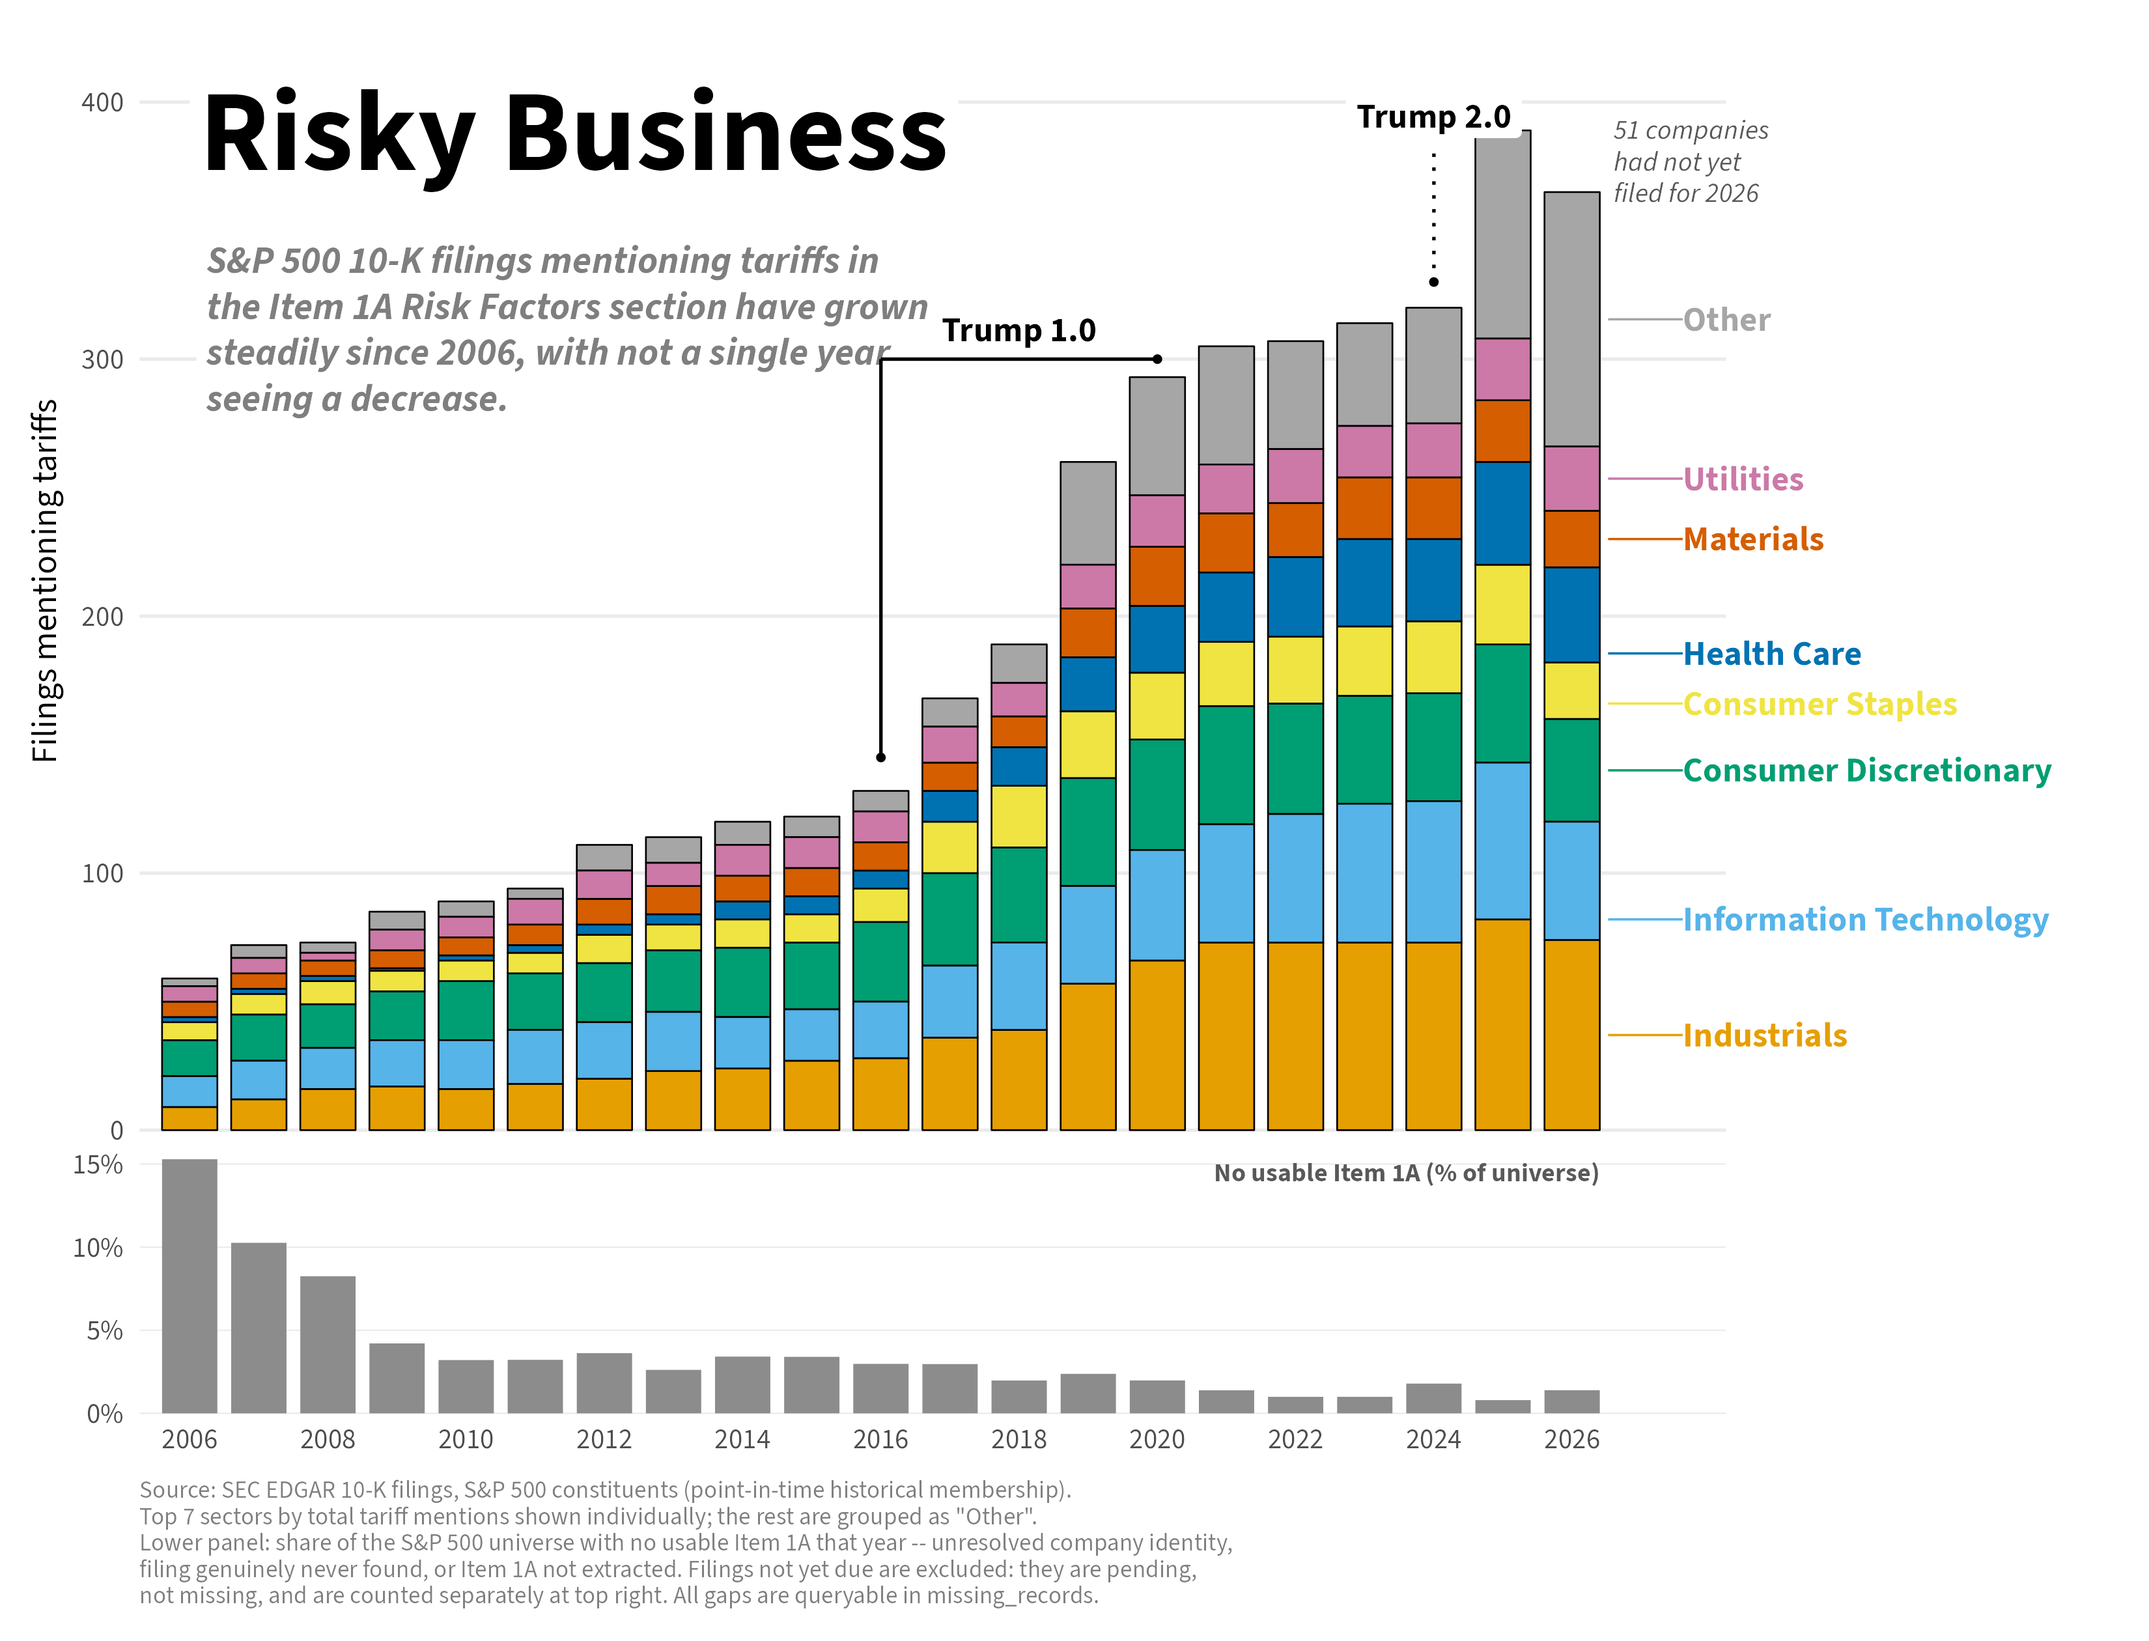
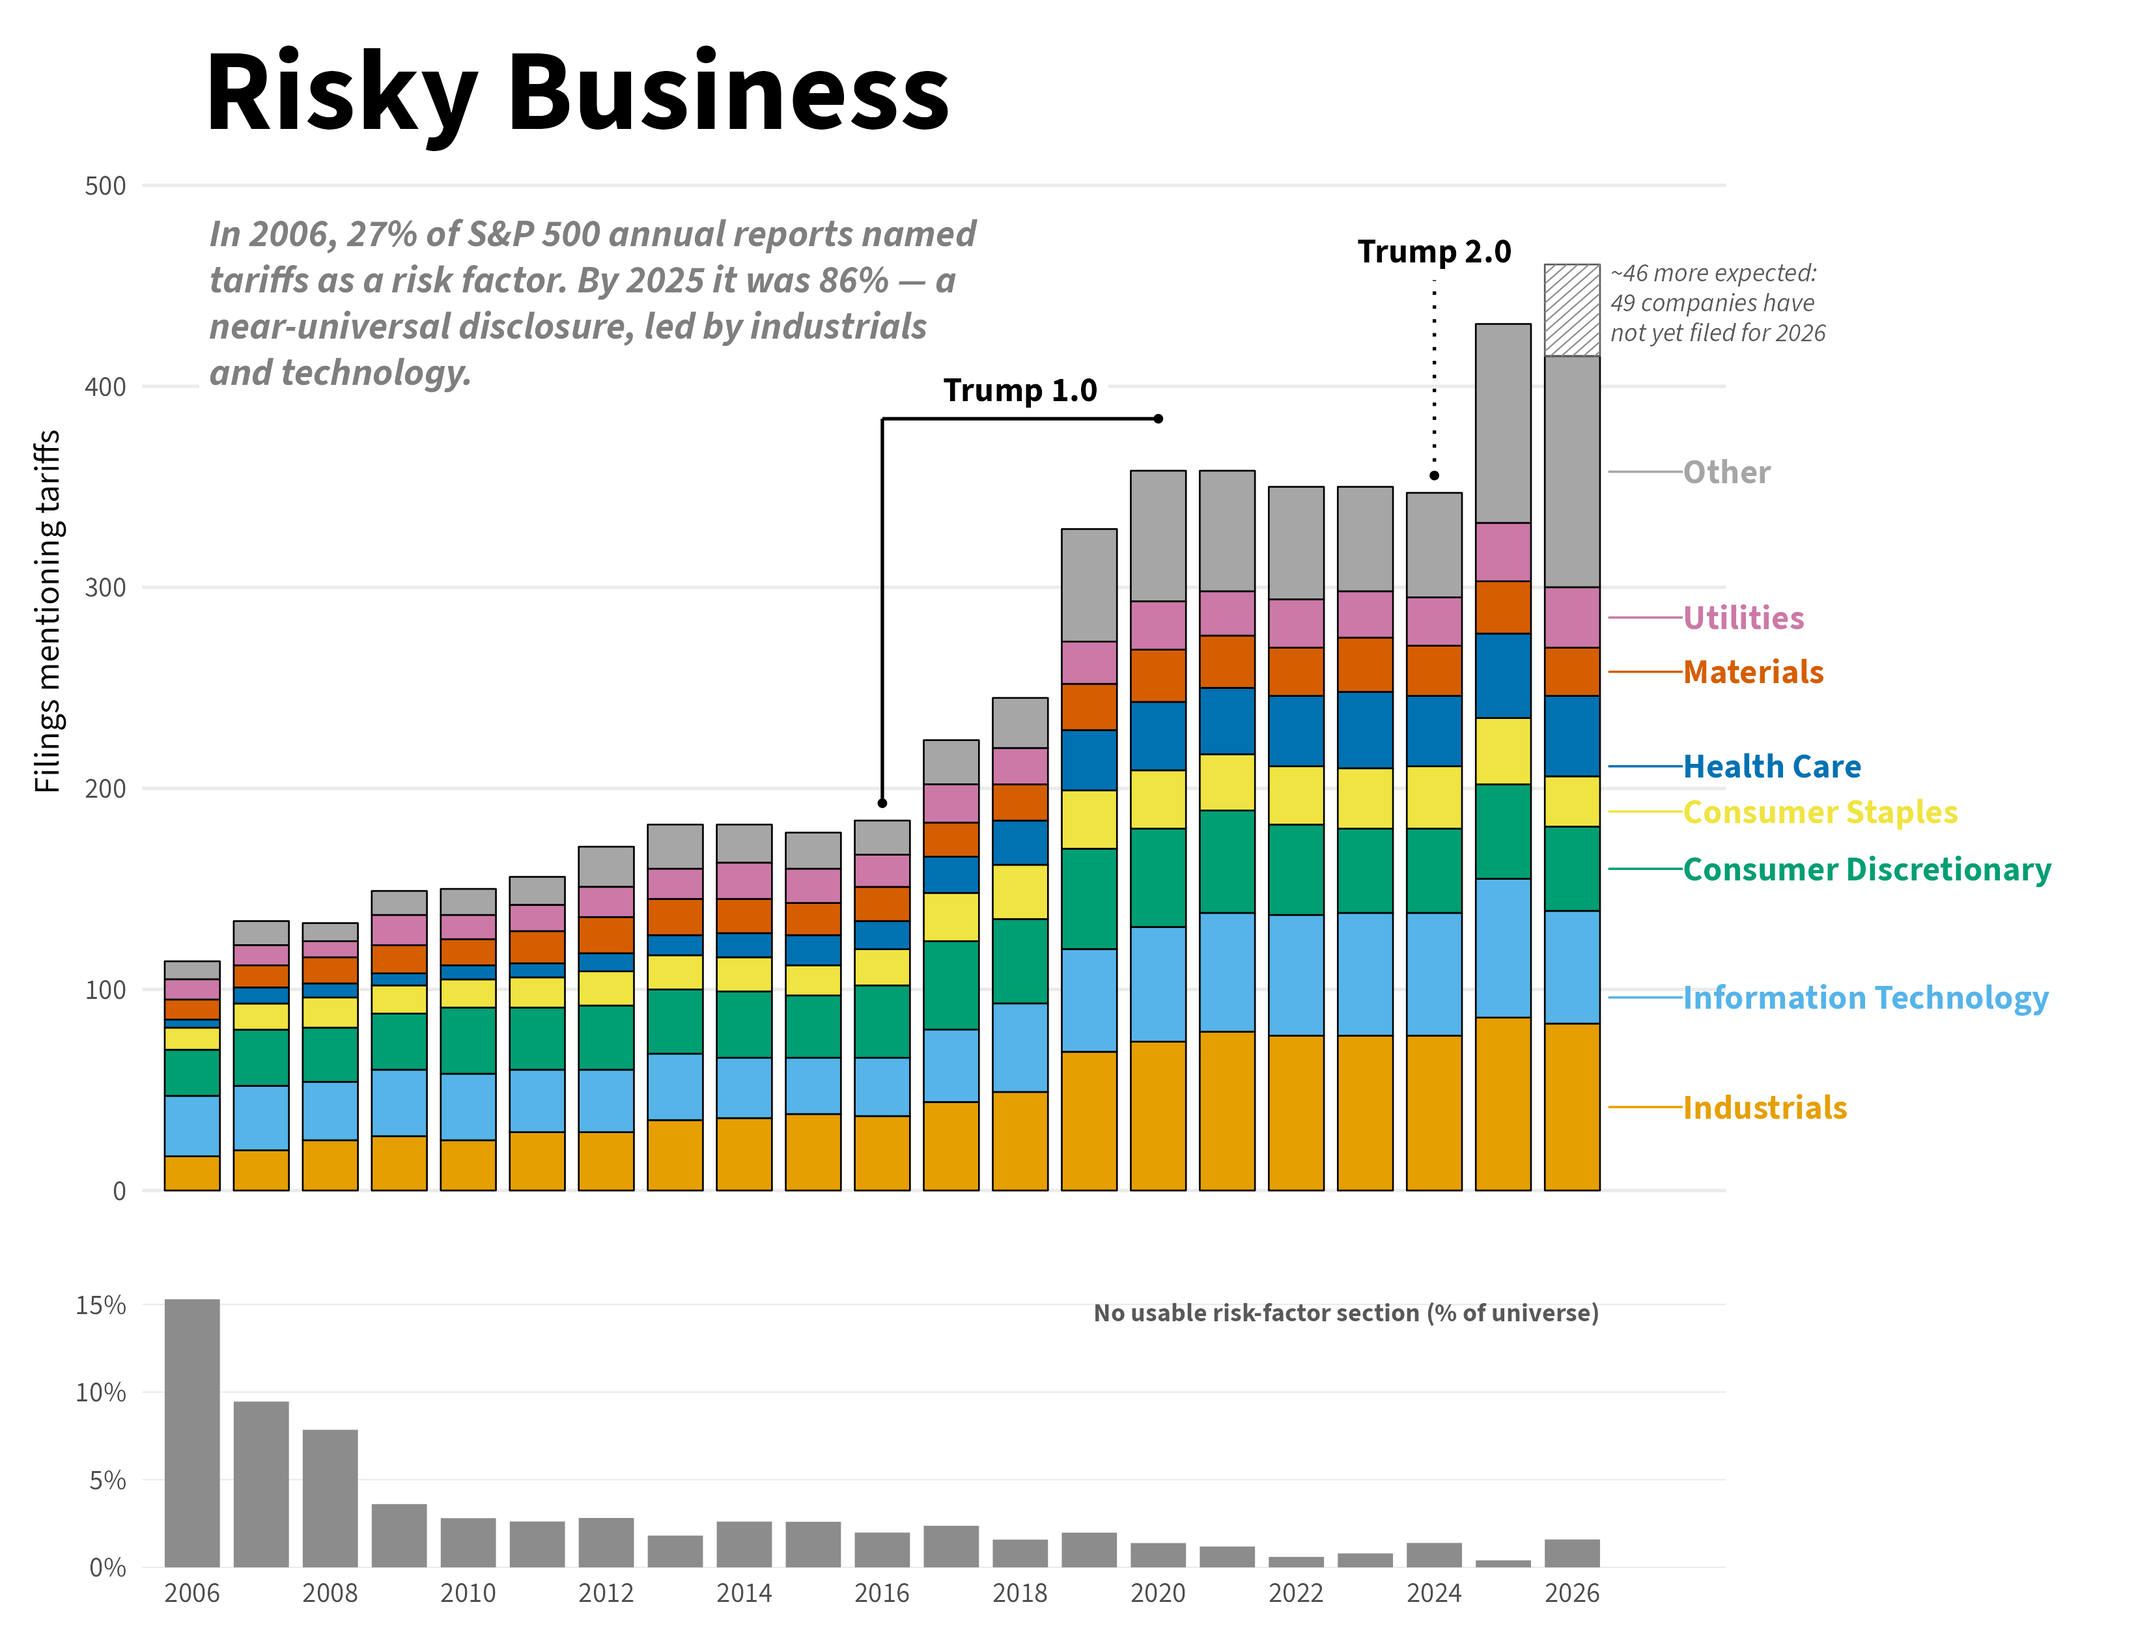
Redraw the tariff chart off a table that was 20 days stale
tariffs_by_year_sector was generated 2026-08-03 21:56.
risk_factors_index was rebuilt 2026-08-21 22:54. Every chart drawn
between those dates read the corpus as it stood BEFORE the
CIK-resolution work that took coverage from 71% to 96%.

That work recovered early years hardest, so the staleness was not a
uniform scaling -- 2006 came back 59 mentions against a true 114 (14.0%
vs 27.1%), while 2025 moved 389 -> 431. The headline claim was an
artifact of exactly that: "not a single year seeing a decrease" is false
against the rebuilt series, where the count falls in 2008, 2015, 2022,
2024 and (incompletely) 2026, and the share falls in six years. The
growth is real and still large -- 27% to 86% -- but it is ~3.2x, not the
~5.9x the stale series implied.

Nothing about the stale table was visible in the chart. It had no
timestamp, the shape looked plausible, and the claim it supported was
the most quotable sentence on the page. A derived table can be wrong in
the same silent, count-inflating way an extraction can, and
_meta.generated_at is the check that catches it.

So the subtitle states a magnitude instead of a streak, and is built
from the data rather than typed in, so it cannot go stale when the
pipeline is re-run. The share series it quotes is computed here as its
own robustness check: the bars are counts, and the number of filings
behind them is not constant (421 in 2006, 501 in 2025), so if counts and
[…]

diff --git a/decisions.md b/decisions.md
@@ -1192,3 +1192,129 @@ like data but isn't**. Stub extractions counted as risk factors, a wrong
 company's 10-K counted as the right one, a network failure counted as a
 negative result. None are visible in a coverage number; all inflate it. The
 counts that go DOWN after an audit are the ones to trust.
+
+---
+
+## 2026-08-23 — Grade-1 recovery, and a stale table under the chart
+
+Two separate things, and the second is the bigger one.
+
+### The tariff table was 20 days stale
+
+`tariffs_by_year_sector` was generated 2026-08-03 21:56. `risk_factors_index`
+was rebuilt 2026-08-21 22:54. Every chart drawn from that table between those
+dates was reading the corpus as it stood **before** the CIK-resolution work
+that took coverage from 71% to 96%.
+
+That work recovered early years hardest, so the staleness was not a uniform
+scaling — it bit 2006 far harder than 2025. Re-running `06` against the
+current corpus:
+
+| Year | Stale | Rebuilt | Stale rate | Rebuilt rate |
+|---|---|---|---|---|
+| 2006 | 59 | 114 | 14.0% | 27.1% |
+| 2025 | 389 | 431 | 78.0% | 86.0% |
+
+**The old subtitle — "not a single year seeing a decrease" — was an artifact
+of this.** Against the rebuilt series the count falls in 2008, 2015, 2022,
+2024 and (incompletely) 2026; the share falls in six years. The monotone rise
+was manufactured by understating the early years by roughly half. The growth
+is real and still large — 27% to 86% — but it is ~3.2x, not the ~5.9x the
+stale series implied.
+
+Nothing about the stale table was visible in the chart. It had no timestamp on
+it, the shape looked plausible, and the claim it supported was the most
+quotable sentence on the page. The lesson is the standing one in this file,
+one level up: a derived table can be wrong in the same silent, count-inflating
+way an extraction can, and `_meta.generated_at` is the check that catches it.
+
+### Grade-1 recovery: +54 rows, after four wrong versions
+
+`03c_recover_bare_sections.py` recovers sections printed under a "Risk
+Factors" heading that the Item-numbered markers cannot bound — FedEx (in the
+primary document all along), U.S. Bancorp, Wells Fargo. Decisions taken before
+building it: gaps only, so the 10,088 existing sections are untouched by
+construction; grade 1 only, so a safe-harbour cautionary statement standing in
+for Item 1A is recorded as a different disclosure rather than counted as one;
+and exactly one surviving candidate per accession, with ambiguity referred to
+a human instead of resolved by a tiebreak.
+
+**Those three rules were not enough, and the way they failed is the point.**
+The first run recovered 75 rows. Reading them showed ~30 were not short
+sections but wrong text: JNJ 2006 was 3,092 chars of Item 1B, Properties and
+Legal Proceedings; CVG 2008 a pointer stub plus Properties; UPS 2006 a
+forward-looking-statements bullet list. Uniqueness catches ambiguity between
+documents. It says nothing about whether the one survivor stops in the right
+place.
+
+Four guards, each found by reading output that had already passed every
+previous guard:
+
+1. **No Item-numbered heading inside the capture.** An internal `Item 2` /
+   `Item 7A` proves over-run. Note the pattern needs `[2-9]\s*[.\(]?\s*[ab]?`,
+   not `[2-9]\b` — there is no word boundary between "7" and "A", so the
+   first version could not see "ITEM 7A." at all, and UHS 2020 passed with
+   the MD&A appended and that heading on its last line.
+2. **Floor at 11,595 chars** — the 5th percentile of sections produced by the
+   trustworthy method (median 49,983). The existing 1,500 floor was calibrated
+   for marker extraction, which is bounded by two corroborating Item headings.
+   This strategy has one enumerated end marker and nothing corroborating it,
+   so it must clear a stricter bar than the method it stands in for.
+3. **Must end at a sentence.** Citigroup 2021 stopped at "...see Notes 1 and
+   15 to the" because "Consolidated Financial Statements" followed as a styled
+   cross-reference and `html_to_text` puts every element on its own line.
+4. **Must start at a sentence.** Where the nested-candidate collapse falls
+   back to a later running-header repeat, the result is correct at the end and
+   80,000 chars short at the front: WFC 2021 came back at 20,133 against
+   ~100,000 for every neighbouring year, opening "(continued) example, if
+   market interest rates increase...". It passed guards 1-3.
+
+**Nested candidates are one section, not rivals.** Wells Fargo's exhibit
+reprints "Risk Factors" as a running page header, so 2018 yields eight starts
+at ~15,000-char intervals all running to the same terminator — each a suffix
+of the one before. Collapsing to the earliest start per end is not the "take
+the longest" tiebreak rejected earlier; that would choose between different
+spans of text, this chooses a section over a suffix of itself. Candidates with
+*different* ends are still ambiguity and still refused.
+
+**Terminators are enumerated, not inferred**, and the list needed two rounds.
+"controls and procedures" never fired because the heading reads "DISCLOSURE
+CONTROLS AND PROCEDURES" and matching is line-anchored. `management's report
+on internal control` never fired because filings render the possessive as
+U+2019 and the pattern had an ASCII apostrophe — a miss that does not fail,
+it just runs the capture on to the next terminator it can match, which is how
+Citigroup 2024 came back 390,451 chars with a correct opening and KPMG's audit
+opinion on the end.
+
+**Seven rows were rejected by hand** (`REJECTED_TAIL_OVERRUN`): Citigroup
+2023-2026, BNY Mellon 2006-2007, Constellation 2024. All open correctly and
+over-run at the tail into material each filer lays out differently. Fixing
+them needs per-filer terminators, which is the parser checkpoint 4 declined to
+write. **Citigroup therefore ends up entirely absent, 2025 and 2026
+included** — the contamination is ~1% of a 386,000-char section and contains
+no tariff mentions, so admitting them would barely move the chart. That is an
+argument for keeping them and it is the argument this project has refused
+every previous time. Reversing it means deleting from that list, not loosening
+a guard.
+
+Counts across the five runs: 75, 62, 78, 65, 63, then 61 after the hand
+rejections. **The highest number came from the version storing Properties
+sections as risk factors.** Extraction 10,088 -> **10,142**; coverage 95.9% ->
+**96.4%**. `09_validate_resolution.py` passes all five invariants;
+`test_parser_regression.py` reports 149 identical, 0 changed.
+
+### Missingness now distinguishes "no answer" from "answered elsewhere"
+
+`no_item_1a_extracted` carries a sub_reason: `no_item_1a_incorporated` (73
+rows — the filer answered Item 1A by reference, a fact about the filer),
+`no_item_1a_found` (55), `no_item_1a_tail_overrun` (7). All remain gaps for
+coverage; none appear in the tariff bars.
+
+### Chart
+
+2026 is drawn solid at what is counted with a hatched cap for what is pending,
+sized at 49 pending filers x the observed 93% rate rather than the prior
+build's one-mention-per-filer assumption. The subtitle is a magnitude built
+from the data, not a streak. The Trump 1.0/2.0 anchors were hardcoded at
+y = 145 and y = 330 against the stale series and both sat inside their bars
+once it was rebuilt; they are now read off `bar_totals`.

diff --git a/log.md b/log.md
@@ -677,3 +677,78 @@ data but wasn't — a placeholder counted as a risk disclosure, one company's
 report counted as another's, a network failure counted as a real answer. None
 of them show up as a lower number. They all show up as a higher one. So the
 figures that drop after an audit are the ones worth trusting.
+
+## 2026-08-23 — The chart was drawn from a table that had gone stale
+
+Set out to close the remaining gaps in the dataset. Found something else
+first, and it matters more.
+
+The table feeding the tariffs chart was built on 3 August. The underlying
+collection of filings was rebuilt on 21 August — the day we took coverage
+from 71% of companies to 96%. For eighteen days the chart had been drawn
+from the old table, and nobody could tell, because a stale table looks
+exactly like a fresh one.
+
+The damage wasn't spread evenly. The August work recovered old filings much
+more than recent ones, so the stale chart understated 2006 by about half
+while barely touching 2025. **That is what produced the headline claim** —
+"tariff mentions have grown every single year, with not one decrease."
+Rebuild the table and the claim dies: mentions fall in 2008, 2015, 2022 and
+2024. What's left is still a real and large finding — in 2006 about a
+quarter of S&P 500 companies named tariffs as a risk, by 2025 it was
+six in seven — but it's roughly a tripling, not the near-sextupling the old
+numbers implied.
+
+I'd been about to check the growth claim for a completely different reason,
+as a robustness check on coverage. It caught this instead.
+
+## 2026-08-23 — Finding the missing filings, and four wrong answers first
+
+Most of the remaining gaps turned out to be one habit, not fifty quirks:
+companies that print their risk factors somewhere the usual signposts can't
+find them. FedEx's had been sitting in the very document we'd already
+downloaded, under a heading that just says "RISK FACTORS" with no item
+number. Wells Fargo's and US Bancorp's are in the annual-report attachment.
+
+Writing something to follow them was easy. Getting it to stop in the right
+place took five attempts, and every wrong version looked fine from a
+distance.
+
+**The first version found 75 sections. About thirty were the wrong text.**
+Johnson & Johnson's 2006 entry was three thousand characters of the
+Properties section, the Legal Proceedings section, and the one after that.
+UPS's was a page of forward-looking-statements boilerplate. Nothing about
+the number 75 hinted at any of this; it was the largest number of the five
+attempts, and the worst.
+
+So I read them. Then read the next version, and the one after. Each round
+caught something the previous guards couldn't see:
+
+- Text that ran straight past the end of the risk factors into the audited
+  accounts, ending inside KPMG's opinion.
+- A rule that was supposed to catch exactly that, which couldn't see the
+  heading "ITEM 7A." at all — a quirk of how the pattern was written.
+- A section that stopped mid-sentence, because a phrase used as a signpost
+  also appears as an ordinary cross-reference in the text.
+- Wells Fargo's 2021 entry, which ended correctly and was missing the first
+  eighty thousand characters. It began "(continued)". The only reason to
+  doubt it was that every other Wells Fargo year is five times longer.
+
+**One thing I got wrong in a way worth recording.** I'd flagged fourteen
+sections as suspect using a keyword search. Two of them were fine — Aetna's
+list of risks simply *includes* "a significant failure of internal control
+over financial reporting", and my search couldn't tell a risk factor about
+auditing from an auditor's report. Reading beats matching.
+
+**Where it ended:** 54 more companies-years of risk factors, 10,088 to
+10,142, coverage 96.4%. Seven I refused. Citigroup is among them — its text
+is 99% right, with about a page of accounting notes on the end that contain
+no tariff mentions and would barely move the chart. Keeping it was tempting
+for exactly that reason. But "99% of this column is what the column says"
+isn't a standard anything downstream can act on, and this project has turned
+that trade down every previous time it came up. So Citi stays missing, and
+the way to change my mind is to delete it from a list of seven names, not to
+weaken a rule.
+
+The count went 75, 62, 78, 65, 63, 61. The number that was right is the
+smallest one.
